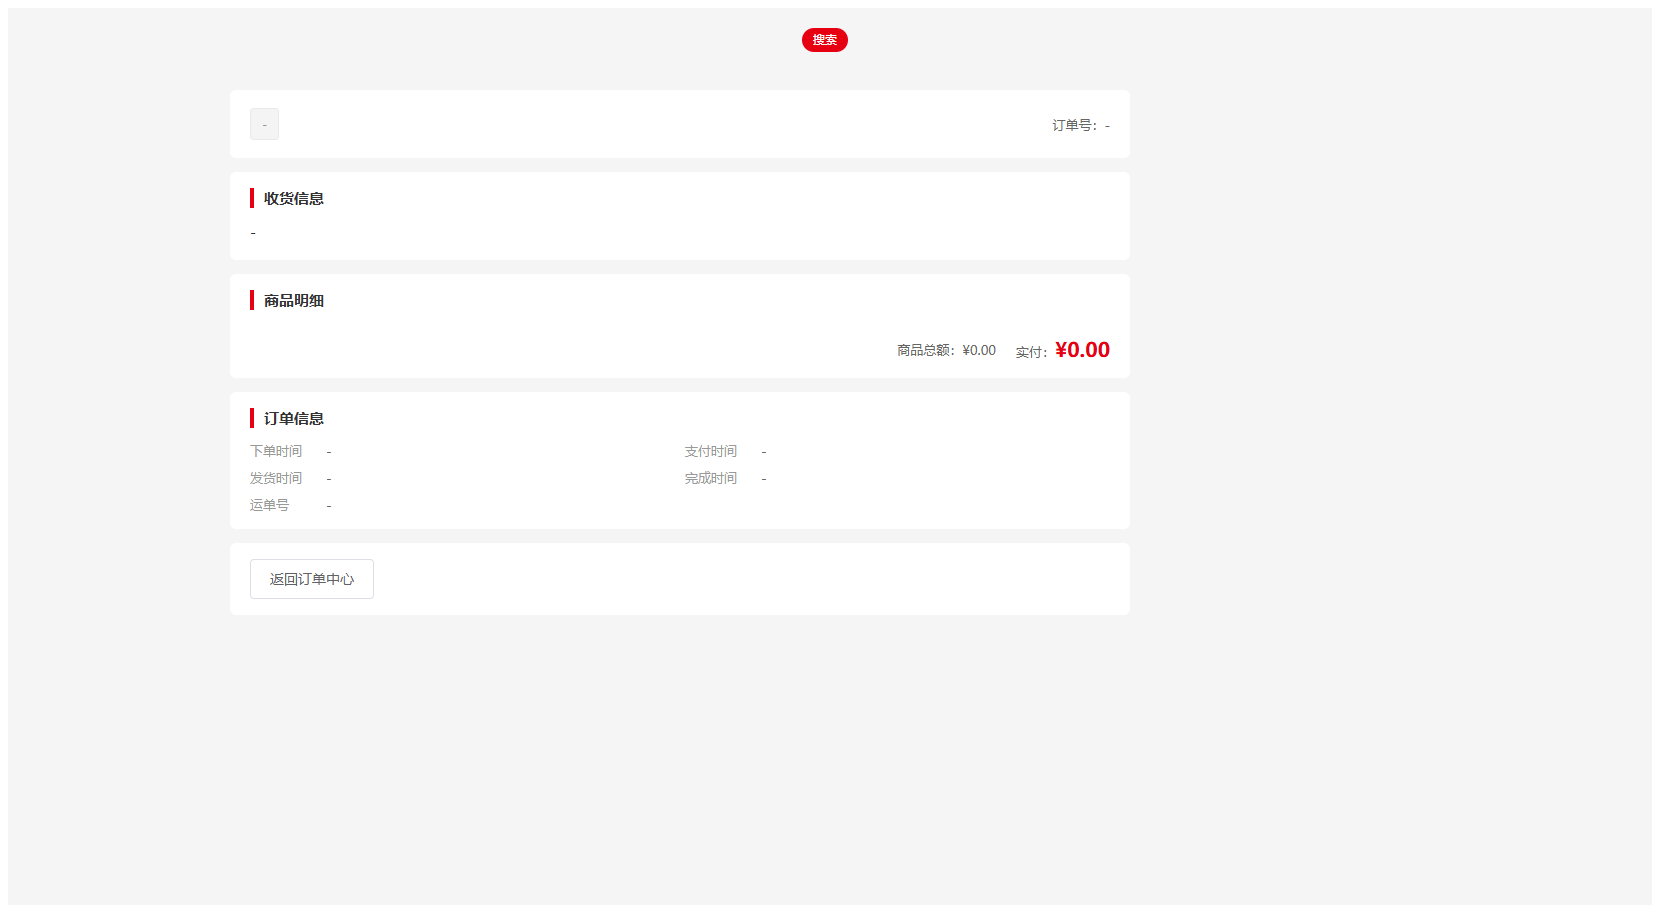
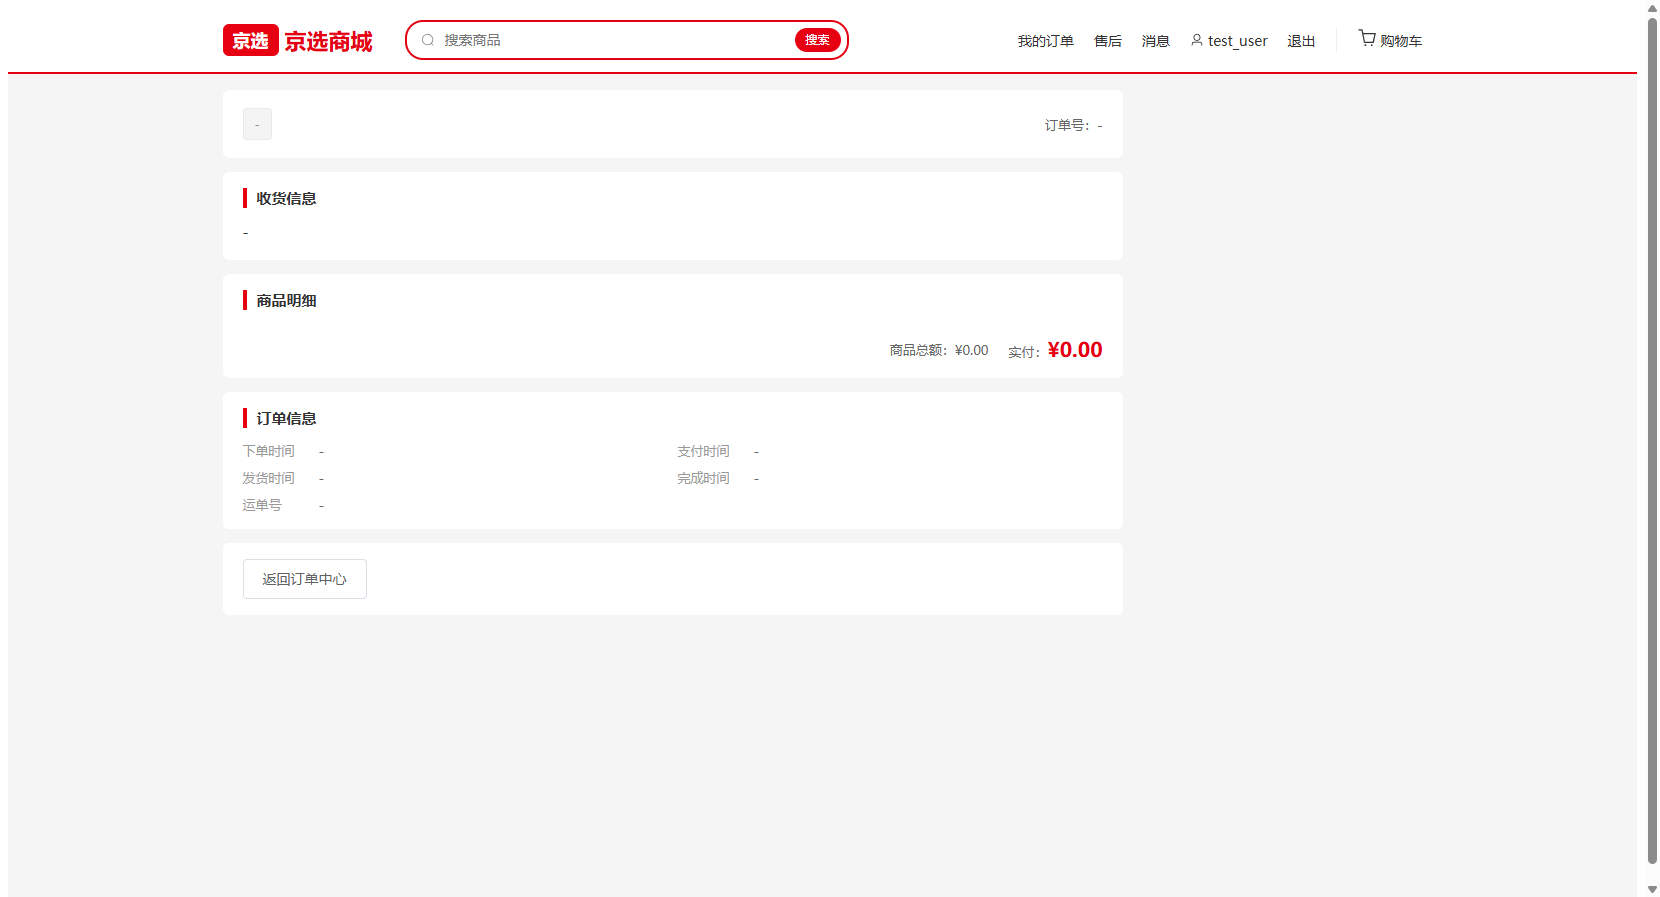
docs(member-b): W3交付物收尾(交付文档完善+三页截图归档)

diff --git a/docs/phase4/member-b/deliverables/W-03-购物与下单链路.md b/docs/phase4/member-b/deliverables/W-03-购物与下单链路.md
@@ -1,6 +1,178 @@
 # W-03 购物与下单链路
 
 > 版本：v1.0 ｜ 作者：成员 B（用户网页端）｜ 日期：2026-08-15 ｜ 状态：✅ 已完成
+> 依据：`docs/phase4/member-b/tasks/W1-W5-用户网页端任务书.md` W3 章节 + T5 接口清单（U-003/U-008~U-016）+ T3 错误码（4003~4008）+ `.qoder/rules/api-contract.md`
+> 范围：购物车 / 结算 / 提交订单 / 模拟支付 / 取消订单，跑通 P0「下单链路」。
+
+## 0. 结论摘要
+
+- ✅ 购物车（B-P05）：U-008 列表（当前价实时读取）、U-010 改数量/勾选（含全选）、U-011 软删除（二次确认），合计栏实时计算已选件数与金额。
+- ✅ 结算页（B-P06）：U-003 地址列表（默认选中默认地址）+ 勾选项快照核对 + 订单备注（≤200 字）+ U-012 提交订单（loading 防重复）。
+- ✅ 下单错误分支：4003 购物车项失效 / 4004 购物车为空 / 4005 地址无效 / 4006 库存不足 / 4007 价格已变化——弹窗提示并自动刷新快照（4005 同时刷新地址）。
+- ✅ 订单详情支付闭环：U-015 模拟支付（成功弹 paymentNo、4008 重复支付拦截、4002 状态非法提示并刷新）、U-016 取消订单（仅 PENDING_PAY 显示，二次确认后刷新）。
+- ✅ 下单成功按商家拆单提示（多单时提示拆分数量），跳转首单详情（PENDING_PAY 可直接支付）。
+- ✅ `npm run build` 通过；browser-use 实测 /cart、/checkout、/orders/:id 三页渲染与空状态。
+- ⏳ 真实下单数据流转待 M3 后端联调（MySQL 8 环境部署后验证 4003~4007 分支与状态流转）。
+
+## 1. 页面截图
+
+### 1.1 购物车（空状态）
+
+![w3-cart.png](w3-cart.png)
+
+后端未部署时空状态「购物车还是空的」+「去逛逛」；正常态为 表头（全选）+ 商品行（勾选/标题/单价/数量步进/小计/删除）+ 结算栏（已选件数 + 合计 + 去结算）。
+
+### 1.2 结算页（双空状态）
+
+![w3-checkout.png](w3-checkout.png)
+
+收货地址区（U-003 列表，默认选中默认地址）+ 商品核对区（购物车勾选项快照）+ 订单备注；无地址/无勾选时提交按钮禁用。
+
+### 1.3 订单详情（后端未部署兜底态）
+
+![w3-order-detail.png](w3-order-detail.png)
+
+状态头（T1 状态标签 + 30 分钟支付倒计时提示）+ 收货快照 + 商品明细快照 + 订单信息（下单/支付/发货/完成时间 + 运单号）；操作区按钮由后端 status 驱动。
+
+## 2. 实现要点
+
+### 2.1 新增/修改文件
+
+| 文件 | 说明 |
+|---|---|
+| `src/api/cart.js` | U-008 getCartItems / U-009 addCartItem / U-010 updateCartItem / U-011 deleteCartItem |
+| `src/api/order.js` | U-012 createOrder / U-014 getOrderDetail / U-015 payOrder / U-016 cancelOrder |
+| `src/api/address.js` | U-003 getAddresses（结算页地址选择） |
+| `src/views/Cart.vue` | 购物车全功能（替换 W1 占位） |
+| `src/views/Checkout.vue` | 结算页全功能（替换 W1 占位） |
+| `src/views/OrderDetail.vue` | W3 简版：U-014 展示 + U-015 支付 + U-016 取消（替换 W1 占位；W4 扩展确认收货/评价入口） |
+
+### 2.2 契约对接记录
+
+| 接口 | 路径 | 入参 | 成功返回 | 页面 |
+|---|---|---|---|---|
+| U-003 | GET /api/addresses | - | data.list（含 isDefault） | 结算页地址区 |
+| U-008 | GET /api/cart/items | - | data.list（price 为实时价、stock、selected 0/1） | 购物车 / 结算页快照 |
+| U-009 | POST /api/cart/items | {productId, quantity 1-999} | data.id | 详情页加购（W2 已接） |
+| U-010 | PUT /api/cart/items/{id} | {quantity?/selected?} | - | 购物车改数量/勾选/全选 |
+| U-011 | DELETE /api/cart/items/{id} | - | - | 购物车删除（软删除） |
+| U-012 | POST /api/orders | {addressId, cartItemIds:[...], remark?} | data.orders: [{orderId, orderNo, status, payAmount}] | 结算页提交订单 |
+| U-014 | GET /api/orders/{id} | - | 订单详情（items 快照 + receiverSnapshot + 物流单号） | 订单详情 |
+| U-015 | POST /api/orders/{id}/pay | - | data.paymentNo | 详情页模拟支付 |
+| U-016 | POST /api/orders/{id}/cancel | - | - | 详情页取消订单 |
+
+### 2.3 关键交互
+
+- **勾选快照**：结算页从 U-008 拉全量购物车过滤 `selected===1` 作为核对快照；提交订单用 `cartItemIds` 传勾选项 ID（后端原子校验，4003~4007 兜底）。
+- **错误分支**：`handleOrderError` 捕获 4003/4004/4005/4006/4007，ElMessageBox 弹窗展示后端 message，随后重新拉取购物车快照；4005 额外刷新地址列表；其他错误由全局拦截器 toast。
+- **支付闭环**：支付成功后 alert 展示 paymentNo（U-015 返回）并刷新详情（状态 → PAID）；4008（重复支付）与 4002（状态非法）toast 提示后刷新；取消订单二次确认文案带「库存将被释放」。
+- **按钮显隐（T1）**：仅 PENDING_PAY 显示「立即支付」「取消订单」；PAID/SHIPPED 显示状态标签，操作按钮由后端 status 驱动，前端不自创状态名。
+- **下单成功跳转**：按商家拆单时 ElMessage 提示拆分数量，`router.replace` 跳首单详情（可立即支付）。
+
+## 3. 验收自测
+
+| 验收项 | 方式 | 结果 |
+|---|---|---|
+| /cart 渲染 + 空状态不空白 | browser-use 实测 | ✅ |
+| /checkout 地址/商品双区空状态 + 提交禁用 | browser-use 实测（无地址/无勾选时按钮 disabled） | ✅ |
+| /orders/:id 渲染不崩溃 | browser-use 实测 | ✅ |
+| 4003~4007 下单错误弹窗并刷新 | 代码分支就绪；真实触发待 M3 | ⏳ |
+| 支付 4008/4002 拦截提示 | 代码分支就绪；真实触发待 M3 | ⏳ |
+| `npm run build` 通过 | 构建成功 | ✅ |
+
+## 4. 遗留与后续
+
+- M3 联调：真实数据下单流转、4003~4007 分支实测、支付流水号展示、购物车勾选项清空验证。
+- W4：OrderList 订单中心五态 Tab（U-013）、OrderDetail 扩展确认收货 U-017 + 评价入口 U-024、售后中心（U-018~021）、评价页（U-024）。
+# W-03 购物与下单链路
+
+> 版本：v1.0 ｜ 作者：成员 B（用户网页端）｜ 日期：2026-08-15 ｜ 状态：✅ 已完成
+> 依据：`docs/phase4/member-b/tasks/W1-W5-用户网页端任务书.md` W3 章节 + T5 接口清单（U-003/U-008~U-016）+ T3 错误码（4003~4008）+ `.qoder/rules/api-contract.md`
+> 范围：购物车 / 结算 / 提交订单 / 模拟支付 / 取消订单，跑通 P0「下单链路」。
+
+## 0. 结论摘要
+
+- ✅ 购物车（B-P05）：U-008 列表（当前价实时读取）、U-010 改数量/勾选（含全选）、U-011 软删除（二次确认），合计栏实时计算已选件数与金额。
+- ✅ 结算页（B-P06）：U-003 地址列表（默认选中默认地址）+ 勾选项快照核对 + 订单备注（≤200 字）+ U-012 提交订单（loading 防重复）。
+- ✅ 下单错误分支：4003 购物车项失效 / 4004 购物车为空 / 4005 地址无效 / 4006 库存不足 / 4007 价格已变化——弹窗提示并自动刷新快照（4005 同时刷新地址）。
+- ✅ 订单详情支付闭环：U-015 模拟支付（成功弹 paymentNo、4008 重复支付拦截、4002 状态非法提示并刷新）、U-016 取消订单（仅 PENDING_PAY 显示，二次确认后刷新）。
+- ✅ 下单成功按商家拆单提示（多单时提示拆分数量），跳转首单详情（PENDING_PAY 可直接支付）。
+- ✅ `npm run build` 通过；browser-use 实测 /cart、/checkout、/orders/:id 三页渲染与空状态。
+- ⏳ 真实下单数据流转待 M3 后端联调（MySQL 8 环境部署后验证 4003~4007 分支与状态流转）。
+
+## 1. 页面截图
+
+### 1.1 购物车（空状态）
+
+![w3-cart.png](w3-cart.png)
+
+后端未部署时空状态「购物车还是空的」+「去逛逛」；正常态为 表头（全选）+ 商品行（勾选/标题/单价/数量步进/小计/删除）+ 结算栏（已选件数 + 合计 + 去结算）。
+
+### 1.2 结算页（双空状态）
+
+![w3-checkout.png](w3-checkout.png)
+
+收货地址区（U-003 列表，默认选中默认地址）+ 商品核对区（购物车勾选项快照）+ 订单备注；无地址/无勾选时提交按钮禁用。
+
+### 1.3 订单详情（后端未部署兜底态）
+
+![w3-order-detail.png](w3-order-detail.png)
+
+状态头（T1 状态标签 + 30 分钟支付倒计时提示）+ 收货快照 + 商品明细快照 + 订单信息（下单/支付/发货/完成时间 + 运单号）；操作区按钮由后端 status 驱动。
+
+## 2. 实现要点
+
+### 2.1 新增/修改文件
+
+| 文件 | 说明 |
+|---|---|
+| `src/api/cart.js` | U-008 getCartItems / U-009 addCartItem / U-010 updateCartItem / U-011 deleteCartItem |
+| `src/api/order.js` | U-012 createOrder / U-014 getOrderDetail / U-015 payOrder / U-016 cancelOrder |
+| `src/api/address.js` | U-003 getAddresses（结算页地址选择） |
+| `src/views/Cart.vue` | 购物车全功能（替换 W1 占位） |
+| `src/views/Checkout.vue` | 结算页全功能（替换 W1 占位） |
+| `src/views/OrderDetail.vue` | W3 简版：U-014 展示 + U-015 支付 + U-016 取消（替换 W1 占位；W4 扩展确认收货/评价入口） |
+
+### 2.2 契约对接记录
+
+| 接口 | 路径 | 入参 | 成功返回 | 页面 |
+|---|---|---|---|---|
+| U-003 | GET /api/addresses | - | data.list（含 isDefault） | 结算页地址区 |
+| U-008 | GET /api/cart/items | - | data.list（price 为实时价、stock、selected 0/1） | 购物车 / 结算页快照 |
+| U-009 | POST /api/cart/items | {productId, quantity 1-999} | data.id | 详情页加购（W2 已接） |
+| U-010 | PUT /api/cart/items/{id} | {quantity?/selected?} | - | 购物车改数量/勾选/全选 |
+| U-011 | DELETE /api/cart/items/{id} | - | - | 购物车删除（软删除） |
+| U-012 | POST /api/orders | {addressId, cartItemIds:[...], remark?} | data.orders: [{orderId, orderNo, status, payAmount}] | 结算页提交订单 |
+| U-014 | GET /api/orders/{id} | - | 订单详情（items 快照 + receiverSnapshot + 物流单号） | 订单详情 |
+| U-015 | POST /api/orders/{id}/pay | - | data.paymentNo | 详情页模拟支付 |
+| U-016 | POST /api/orders/{id}/cancel | - | - | 详情页取消订单 |
+
+### 2.3 关键交互
+
+- **勾选快照**：结算页从 U-008 拉全量购物车过滤 `selected===1` 作为核对快照；提交订单用 `cartItemIds` 传勾选项 ID（后端原子校验，4003~4007 兜底）。
+- **错误分支**：`handleOrderError` 捕获 4003/4004/4005/4006/4007，ElMessageBox 弹窗展示后端 message，随后重新拉取购物车快照；4005 额外刷新地址列表；其他错误由全局拦截器 toast。
+- **支付闭环**：支付成功后 alert 展示 paymentNo（U-015 返回）并刷新详情（状态 → PAID）；4008（重复支付）与 4002（状态非法）toast 提示后刷新；取消订单二次确认文案带「库存将被释放」。
+- **按钮显隐（T1）**：仅 PENDING_PAY 显示「立即支付」「取消订单」；PAID/SHIPPED 显示状态标签，操作按钮由后端 status 驱动，前端不自创状态名。
+- **下单成功跳转**：按商家拆单时 ElMessage 提示拆分数量，`router.replace` 跳首单详情（可立即支付）。
+
+## 3. 验收自测
+
+| 验收项 | 方式 | 结果 |
+|---|---|---|
+| /cart 渲染 + 空状态不空白 | browser-use 实测 | ✅ |
+| /checkout 地址/商品双区空状态 + 提交禁用 | browser-use 实测（无地址/无勾选时按钮 disabled） | ✅ |
+| /orders/:id 渲染不崩溃 | browser-use 实测 | ✅ |
+| 4003~4007 下单错误弹窗并刷新 | 代码分支就绪；真实触发待 M3 | ⏳ |
+| 支付 4008/4002 拦截提示 | 代码分支就绪；真实触发待 M3 | ⏳ |
+| `npm run build` 通过 | 构建成功 | ✅ |
+
+## 4. 遗留与后续
+
+- M3 联调：真实数据下单流转、4003~4007 分支实测、支付流水号展示、购物车勾选项清空验证。
+- W4：OrderList 订单中心五态 Tab（U-013）、OrderDetail 扩展确认收货 U-017 + 评价入口 U-024、售后中心（U-018~021）、评价页（U-024）。
+# W-03 购物与下单链路
+
+> 版本：v1.0 ｜ 作者：成员 B（用户网页端）｜ 日期：2026-08-15 ｜ 状态：✅ 已完成
 > 依据：`docs/phase4/member-b/tasks/W1-W5-用户网页端任务书.md` W3 章节 + T5 接口清单（U-003/U-008~U-016）+ T3 错误码（4001~4009）+ `.qoder/rules/api-contract.md`
 > 范围：购物车 / 结算 / 提交订单 / 模拟支付链路接通 U-008~U-016（U-017~U-024 留 W4）。
 
